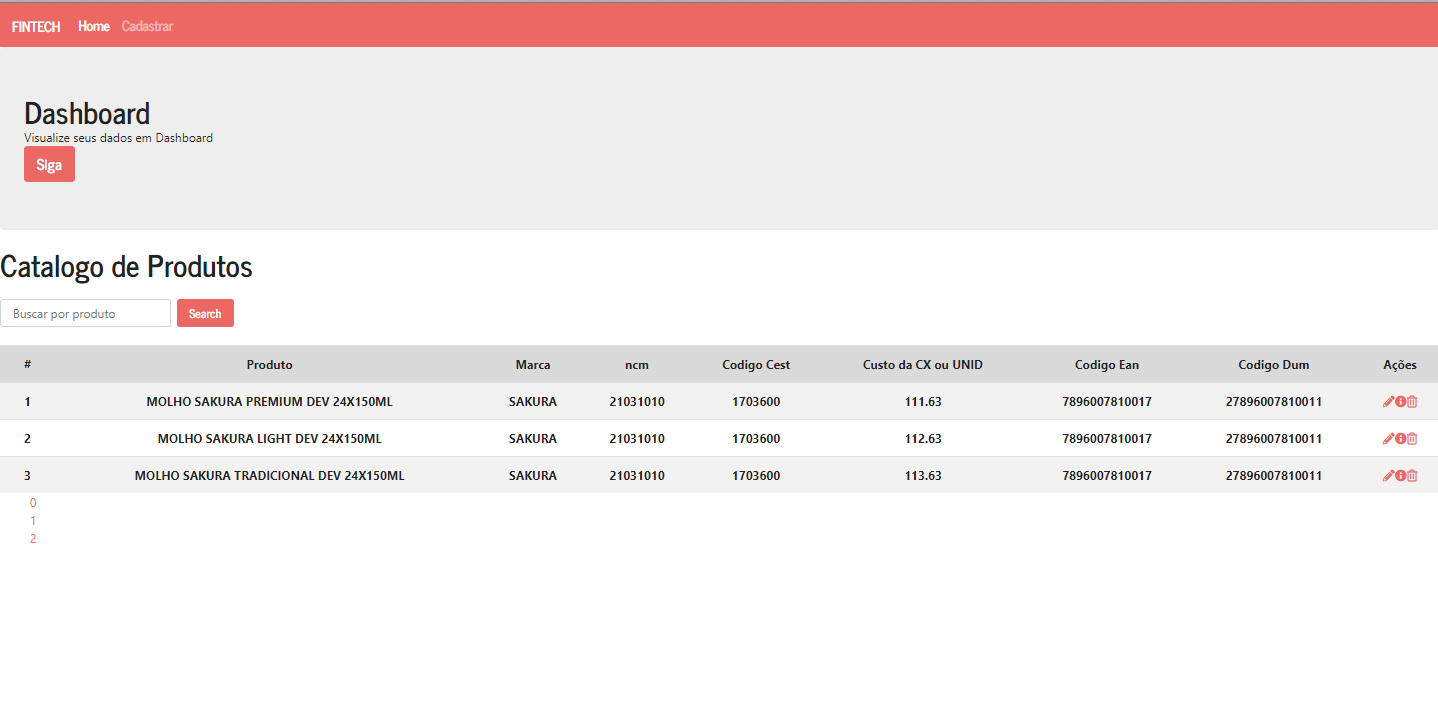
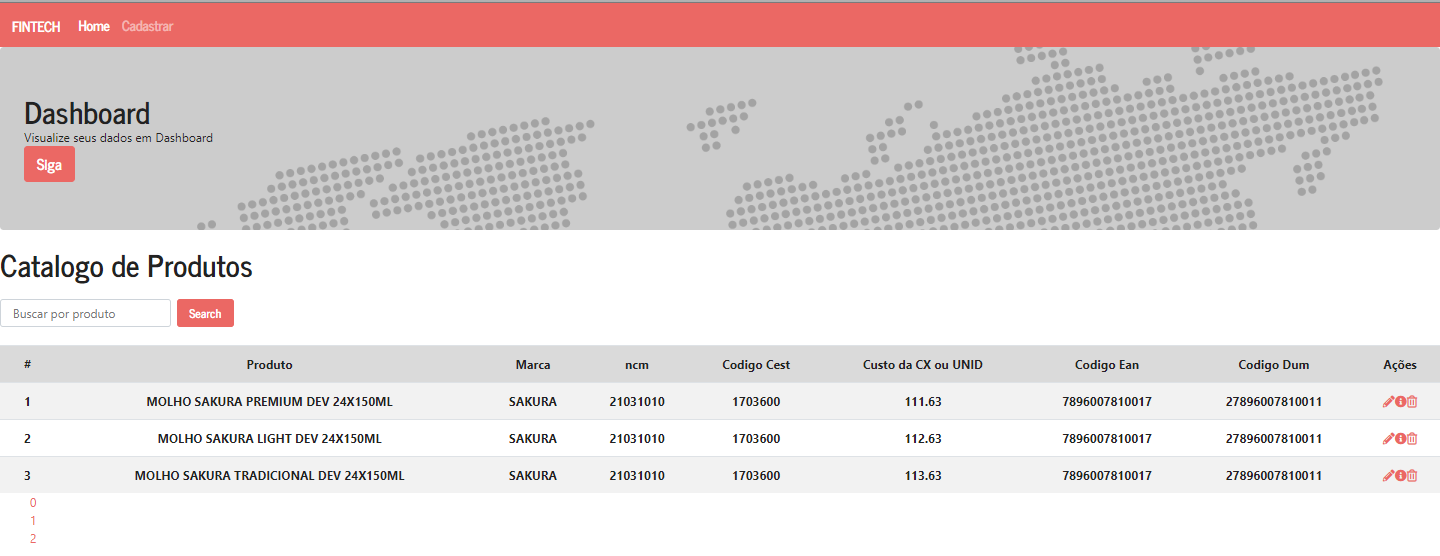
add

diff --git a/crud-angularIO/src/app/dashboard/dashboard.component.html b/crud-angularIO/src/app/dashboard/dashboard.component.html
@@ -1,4 +1,4 @@
-<div class="teste">
+<div class="espacamento">
 
     <h1>Dashboard</h1>
 
@@ -13,6 +13,7 @@
                 content.</p>
             <google-chart [data]="pieChart1"></google-chart>
         </div>
+        <div class="card-footer">{{formatacaoDataHora()}}</div>
     </div>
 
     <!-- Bar grafico -->
@@ -26,6 +27,7 @@
                 content.</p>
             <google-chart [data]="pieChart2"></google-chart>
         </div>
+        <div class="card-footer">{{formatacaoDataHora()}}</div>
     </div>
 
     <!-- ColumnChart grafico -->
@@ -39,6 +41,7 @@
                 content.</p>
             <google-chart [data]="pieChart4"></google-chart>
         </div>
+        <div class="card-footer">{{formatacaoDataHora()}}</div>
     </div>
 
     <!-- Table grafico -->
@@ -52,6 +55,7 @@
                 content.</p>
             <google-chart [data]="pieChart3"></google-chart>
         </div>
+        <div class="card-footer">{{formatacaoDataHora()}}</div>
     </div>
 
     <!-- dados da qtd. de produtos totais -->
@@ -69,9 +73,10 @@
                 <li class="coluna">
                     <p class="card-text">Marca Principal</p>
                     <h4 class="card-title">{{produtos[0].marca}}</h4>
-                </li>
+                </li> 
             </ul>
         </div>
+        <div class="card-footer">{{formatacaoDataHora()}}</div>
     </div>
 
 </div>

diff --git a/crud-angularIO/src/app/table/table.component.html b/crud-angularIO/src/app/table/table.component.html
@@ -1,8 +1,11 @@
+<!-- componente que chama á Dashboard -->
 <div class="jumbotron">
   <h1>Dashboard</h1>
   <p>Visualize seus dados em Dashboard</p>
   <p><a class="btn btn-primary btn-lg" routerLink="/dashboard">Siga</a></p>
 </div>
+
+<!-- Lista de produtos -->
 <br>
 <h1>Catalogo de Produtos</h1>
 <br>
@@ -25,7 +28,6 @@
       <th scope="col">Ações</th>
     </tr>
   </thead>
-
   <tbody>
     <tr *ngFor="let produto of produtos">
       <th>{{produto.id}}</th>
@@ -43,7 +45,7 @@
         <a routerLink="/details" (click)="trazerCliente(produto.id, produto)">
           <i class="fas fa-info-circle"></i>
         </a>
-        <a routerLink="/delete" (click)="deleteClient(produto.id,produto)">
+        <a routerLink="/delete" #exclu  (click)="deleteClient(produto.id,produto)">
           <i class="far fa-trash-alt"></i>
         </a>
       </td>
@@ -63,3 +65,10 @@
 
   </tbody>
 </table>
+<br>
+ 
+<!-- alerta de menssagem de excluído com sucesso -->
+<div *ngIf="excluirValidacao == true" class="alert alert-dismissible alert-success">
+  <button type="button" class="close" data-dismiss="alert">&times;</button>
+  <strong>Registro excluído com successo!</strong>
+</div>

diff --git a/crud-angularIO/src/app/form-create/form-create.component.html b/crud-angularIO/src/app/form-create/form-create.component.html
@@ -56,7 +56,7 @@
       <div class="form-group">
         <label for="CodigoDum">CodigoDum</label>
         <div class="form-inline my-2 my-lg-0">
-          <input name="CodigoDum" ngModel class="form-control mr-sm-2" type="text" >
+          <input name="CodigoDum" ngModel class="form-control mr-sm-2" type="text">
         </div>
       </div>
 
@@ -75,7 +75,8 @@
       </div>
 
     </form>
-
+    <br>
+    
     <!-- alerta de menssagem de cadastro com sucesso -->
     <div *ngIf="validacao == true" class="alert alert-dismissible alert-success">
       <button type="button" class="close" data-dismiss="alert">&times;</button>

diff --git a/crud-angularIO/src/app/table/table.component.ts b/crud-angularIO/src/app/table/table.component.ts
@@ -15,6 +15,7 @@ export class TableComponent implements OnInit {
   filteredTodos: any = [];
   currentPage = 1;
   itemsPerPage = 1;
+  excluirValidacao: boolean = false;
 
   constructor(public crudService: CrudService) { }
 
@@ -59,7 +60,8 @@ export class TableComponent implements OnInit {
     this.crudService
       .delete(id).subscribe(
         data => {
-          alert("Cliente " + client.nome + ", foi removido!");
+         // alert("Cliente " + client.nome + ", foi removido!");
+          this.excluirValidacao = true;
           window.location.reload();
         },
         error => {

diff --git a/crud-angularIO/src/app/dashboard/dashboard.component.css b/crud-angularIO/src/app/dashboard/dashboard.component.css
@@ -2,12 +2,13 @@
     margin: 0px;
 }
 
-.teste {
-    margin: 10px; 
+.espacamento {
+    margin-top: 20px; 
+    margin-left: 15px; 
 }
 
 h1 {
-    margin: 20px;
+    margin-top: 15px;
     text-align: center;
     tab-size: 20px;
     font-family: 'Courier New', Courier, monospace;
@@ -29,7 +30,7 @@ h1 {
 }
 
 .coluna{
-    margin: 20px;
+    margin: 5px;
     display: inline-block;
     position: relative;
 }
@@ -37,4 +38,9 @@ h1 {
 .card-body > p{
     margin-bottom: 20px; 
 }
-  
+
+/* espaçamento do texto do card */
+ul, menu, dir {
+    padding-inline-start: 5px;
+}
+ 

diff --git a/crud-angularIO/src/app/dashboard/dashboard.component.ts b/crud-angularIO/src/app/dashboard/dashboard.component.ts
@@ -14,10 +14,19 @@ export class DashboardComponent implements OnInit {
   produtos: any = [];
   dataTable: any = [];
 
+  mesAtual = new Date().getUTCDate();
+  anoAtual = new Date().getUTCFullYear();
+  horaAtual = new Date().getHours();
+  minutoAtual = new Date().getMinutes();
+
   constructor(public crudService: CrudService) { }
 
   ngOnInit() {
     this.getClients();
+  }
+
+  formatacaoDataHora() {
+    return this.mesAtual + "/" + this.anoAtual + " " + this.horaAtual + ":" + this.minutoAtual;
   }
 
   /* Mostra TODOS os dados do json */

diff --git a/crud-angularIO/src/app/table/table.component.css b/crud-angularIO/src/app/table/table.component.css
@@ -5,3 +5,8 @@
 .teste {
     border-radius: 0.25rem;
 }
+
+
+.jumbotron{
+    background-image: url("http://contabilidadefrancis.com/wp-content/uploads/2015/08/background-partner-pictures-business-driver-static-city-challenge-110563.png");
+}
